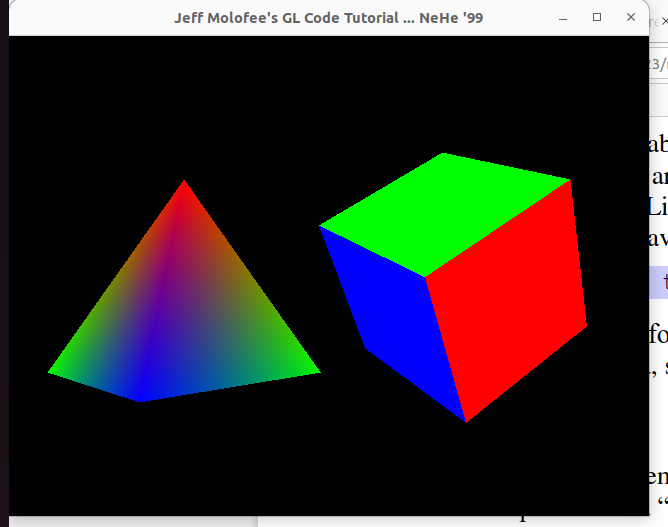
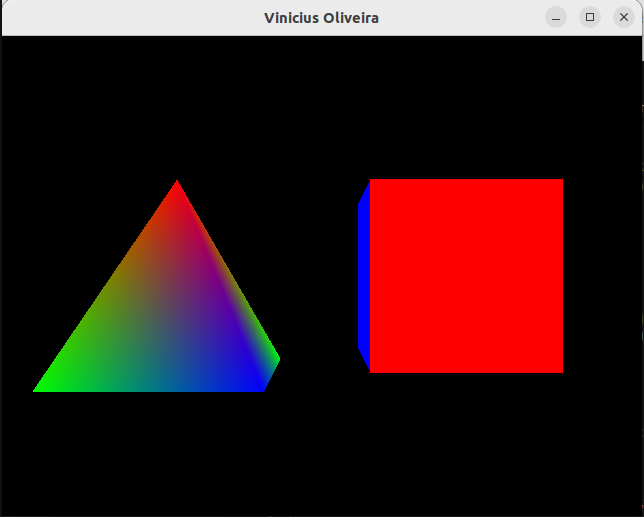
adding image samples

Changed region(s): [[0.0, 0.0, 1.0, 1.0], [0.4658, 0.2785, 0.9006, 0.8046], [0.2484, 0.0, 0.7453, 0.0619]]

diff --git a/lab01/lesson5.cpp b/lab01/lesson5.cpp
@@ -197,7 +197,7 @@ int main(int argc, char **argv)
   glutInitWindowPosition(0, 0);  
 
   /* Open a window */  
-  window = glutCreateWindow("Jeff Molofee's GL Code Tutorial ... NeHe '99");  
+  window = glutCreateWindow("lab01 - Vinicius Oliveira");  
 
   /* Register the function to do all our OpenGL drawing. */
   glutDisplayFunc(&DrawGLScene);  
